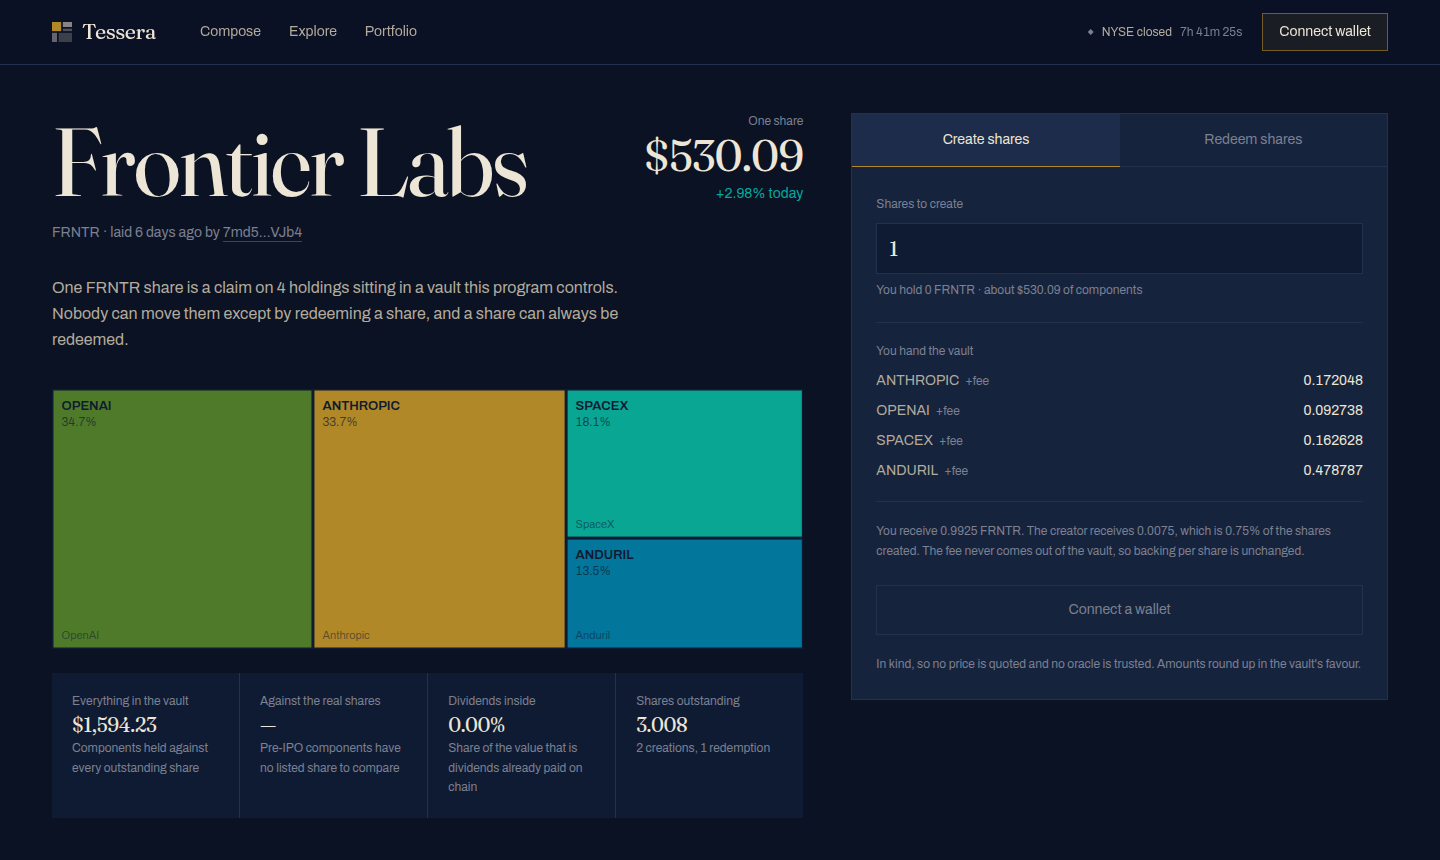
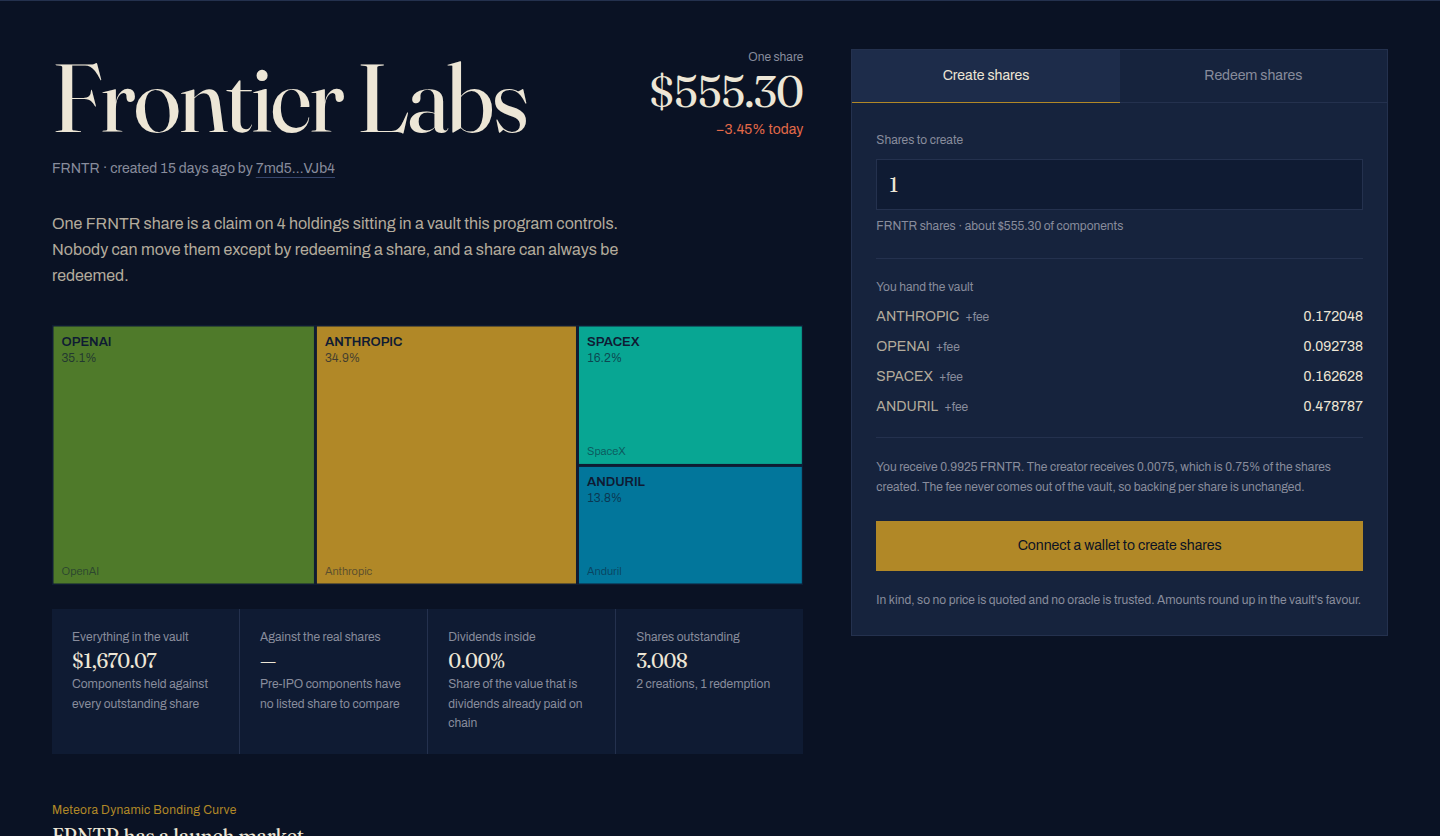
Give the site motion where it means something, and state the business
The bonding curve draws itself when it comes into view and the marker
glides after a buy. The hero settles in line by line, sections rise as
they scroll into view, live markers breathe, cards lift on hover, and all
of it is off under reduced motion. Explore opens on the most traded
baskets, the README gets fresh screenshots and a section on revenue, and
the 404 page loses the last of the old wording.

diff --git a/web/components/launch-market.tsx b/web/components/launch-market.tsx
@@ -1,6 +1,6 @@
 "use client";
 
-import { useCallback, useEffect, useState } from "react";
+import { useCallback, useEffect, useRef, useState } from "react";
 import Link from "next/link";
 import { PublicKey } from "@solana/web3.js";
 import { useConnection, useWallet } from "@solana/wallet-adapter-react";
@@ -427,7 +427,7 @@ export function LaunchCard({
           <span className="text-ivory-dim">{info.baseName}</span>
         </p>
         <p className="flex items-center gap-2 text-xs text-ivory-faint">
-          <span className="size-1.5 rounded-full bg-gain" aria-hidden />
+          <span className={`size-1.5 rounded-full bg-gain ${state?.migrated ? "" : "live-dot"}`} aria-hidden />
           {state?.migrated
             ? "Graduated to Meteora DAMM v2"
             : state && state.raised >= state.threshold
@@ -614,11 +614,30 @@ const PAD = { top: 20, right: 16, bottom: 30, left: 16 };
  * shape is an exact parabola, not an illustration.
  */
 function Curve({ state, error }: { state: DbcState | null; error: string | null }) {
-  const { ref, width } = useMeasure<HTMLDivElement>();
+  const { ref: measure, width } = useMeasure<HTMLDivElement>();
+  const el = useRef<HTMLDivElement | null>(null);
+  const ref = useCallback(
+    (node: HTMLDivElement | null) => {
+      el.current = node;
+      measure(node);
+    },
+    [measure],
+  );
+  // The chart usually sits below the fold, so the draw-in waits until it is seen.
+  const [seen, setSeen] = useState(false);
+  useEffect(() => {
+    if (!el.current) return;
+    const observer = new IntersectionObserver(([entry]) => {
+      if (entry.isIntersecting) setSeen(true);
+    });
+    observer.observe(el.current);
+    return () => observer.disconnect();
+  }, []);
+  const progress = useTween(seen && state ? Math.min(1, state.raised / state.threshold) : 0);
   return (
     <div ref={ref} className="h-[220px]">
       {state && width > 0 ? (
-        <CurvePlot state={state} W={width} />
+        <CurvePlot state={state} W={width} progress={progress} />
       ) : (
         <p className="flex h-full items-center justify-center px-6 text-center text-xs text-ivory-faint">
           {error ?? "Reading the pool"}
@@ -628,13 +647,45 @@ function Curve({ state, error }: { state: DbcState | null; error: string | null 
   );
 }
 
-function CurvePlot({ state, W }: { state: DbcState; W: number }) {
+/**
+ * Eases a value towards its target over 800ms, so the curve draws itself on
+ * first view and the marker slides along it after a buy instead of jumping.
+ */
+function useTween(target: number): number {
+  const [value, setValue] = useState(0);
+  const from = useRef(0);
+  useEffect(() => {
+    if (window.matchMedia("(prefers-reduced-motion: reduce)").matches) {
+      const frame = requestAnimationFrame(() => setValue(target));
+      return () => cancelAnimationFrame(frame);
+    }
+    const start = performance.now();
+    const begin = from.current;
+    let frame = 0;
+    const step = (now: number) => {
+      const t = Math.min(1, (now - start) / 800);
+      const eased = 1 - (1 - t) ** 3;
+      const next = begin + (target - begin) * eased;
+      from.current = next;
+      setValue(next);
+      if (t < 1) frame = requestAnimationFrame(step);
+    };
+    frame = requestAnimationFrame(step);
+    return () => cancelAnimationFrame(frame);
+  }, [target]);
+  return value;
+}
+
+function CurvePlot({ state, W, progress }: { state: DbcState; W: number; progress: number }) {
   const a = Math.sqrt(state.openCap);
   const b = Math.sqrt(state.graduationCap);
   const capAt = (t: number) => (a + (b - a) * t) ** 2;
   const x = (t: number) => PAD.left + t * (W - PAD.left - PAD.right);
   const y = (cap: number) => H - PAD.bottom - (cap / state.graduationCap) * (H - PAD.top - PAD.bottom);
-  const progress = Math.min(1, state.raised / state.threshold);
+  // While the marker is moving it sits on the curve itself; at rest it sits at the pool's own price.
+  const settled = Math.abs(progress - Math.min(1, state.raised / state.threshold)) < 0.0005;
+  const cap = settled ? state.cap : capAt(progress);
+  const raised = settled ? state.raised : progress * state.threshold;
 
   const line = (from: number, to: number) =>
     Array.from({ length: 61 }, (_, i) => from + ((to - from) * i) / 60)
@@ -656,17 +707,17 @@ function CurvePlot({ state, W }: { state: DbcState; W: number }) {
       <path d={line(0, 1)} fill="none" stroke="var(--color-rule-bright)" strokeWidth="2" strokeDasharray="4 4" />
       <path d={filled} fill="var(--color-gold)" fillOpacity="0.18" />
       <path d={line(0, progress)} fill="none" stroke="var(--color-gold)" strokeWidth="2.5" />
-      <line x1={x(progress)} x2={x(progress)} y1={base} y2={y(state.cap)} stroke="var(--color-gold)" strokeDasharray="2 3" />
-      <circle cx={x(progress)} cy={y(state.cap)} r="6" fill="var(--color-gold)" stroke="var(--color-ground-raised)" strokeWidth="2" />
+      <line x1={x(progress)} x2={x(progress)} y1={base} y2={y(cap)} stroke="var(--color-gold)" strokeDasharray="2 3" />
+      <circle cx={x(progress)} cy={y(cap)} r="6" fill="var(--color-gold)" stroke="var(--color-ground-raised)" strokeWidth="2" />
       {/* Past the middle the label sits left of the dot, so it never runs off the edge. */}
       <text
         x={progress > 0.6 ? x(progress) - 12 : x(progress) + 12}
-        y={progress > 0.6 ? y(state.cap) + 20 : y(state.cap) - 10}
+        y={progress > 0.6 ? y(cap) + 20 : y(cap) - 10}
         fill="var(--color-ivory)"
         fontSize="13"
         textAnchor={progress > 0.6 ? "end" : "start"}
       >
-        {state.migrated ? "graduated" : "now"} · {quantity(state.raised, 4)} SOL in
+        {state.migrated ? "graduated" : "now"} · {quantity(raised, 4)} SOL in
       </text>
       <circle cx={x(1)} cy={y(state.graduationCap)} r="4" fill="none" stroke="var(--color-ivory-dim)" strokeWidth="1.5" />
       {progress < 0.85 && (

diff --git a/web/app/page.tsx b/web/app/page.tsx
@@ -40,23 +40,23 @@ export default function Home() {
         <div className="max-w-[34rem] self-center">
           <Link
             href="#launch"
-            className="mb-7 inline-flex items-center gap-2.5 border border-gold/40 px-3 py-1.5 text-xs text-ivory-dim transition-colors hover:border-gold hover:text-ivory"
+            className="rise mb-7 inline-flex items-center gap-2.5 border border-gold/40 px-3 py-1.5 text-xs text-ivory-dim transition-colors hover:border-gold hover:text-ivory"
           >
-            <span className="size-1.5 shrink-0 rounded-full bg-gain" aria-hidden />
+            <span className="live-dot size-1.5 shrink-0 rounded-full bg-gain" aria-hidden />
             Live now: a basket trading on a Meteora bonding curve
             <span aria-hidden>↓</span>
           </Link>
-          <h1 className="display text-hero text-ivory">
+          <h1 className="rise display text-hero text-ivory" style={{ "--i": 1 } as React.CSSProperties}>
             An index fund is a list of companies and a set of weights.
           </h1>
-          <p className="mt-7 max-w-[46ch] text-lg leading-relaxed text-ivory-dim">
+          <p className="rise mt-7 max-w-[46ch] text-lg leading-relaxed text-ivory-dim" style={{ "--i": 2 } as React.CSSProperties}>
             Tessera is an ETF launchpad on Solana. Pick up to eight tokenised
             stocks and pre-IPO companies such as OpenAI and SpaceX, set the
             weights, and launch them as one token. Every share is backed by the
             real tokens in an on-chain vault and can be redeemed for them at any
             time. You earn a fee on every share created.
           </p>
-          <div className="mt-9 flex flex-wrap items-center gap-4">
+          <div className="rise mt-9 flex flex-wrap items-center gap-4" style={{ "--i": 3 } as React.CSSProperties}>
             <ComposeCta />
             <Link
               href="/explore"
@@ -65,7 +65,7 @@ export default function Home() {
               Explore baskets
             </Link>
           </div>
-          <p className="mt-7 text-sm leading-relaxed text-ivory-faint">
+          <p className="rise mt-7 text-sm leading-relaxed text-ivory-faint" style={{ "--i": 4 } as React.CSSProperties}>
             Nothing is priced by an oracle. A share is created by handing the vault
             the exact tokens the recipe names, and redeemed by taking them back.
           </p>
@@ -77,12 +77,12 @@ export default function Home() {
       </section>
 
       {/* ------------------------------------------------------------ stats */}
-      <section className="border-y border-rule py-px">
+      <section className="reveal border-y border-rule py-px">
         <HomeStats />
       </section>
 
       {/* ------------------------------------------------------- lifecycle */}
-      <section className="py-20">
+      <section className="reveal py-20">
         <h2 className="display text-title max-w-[26ch] text-ivory">
           From a recipe to a market, and none of it trusts us.
         </h2>
@@ -120,12 +120,12 @@ export default function Home() {
       </section>
 
       {/* ---------------------------------------------------------- launch */}
-      <section id="launch" className="scroll-mt-24 border-t border-rule py-20">
+      <section id="launch" className="reveal scroll-mt-24 border-t border-rule py-20">
         <LaunchMarket />
       </section>
 
       {/* ------------------------------------------------------- two clocks */}
-      <section className="grid gap-10 border-t border-rule py-20 lg:grid-cols-[minmax(0,1fr)_minmax(0,1.1fr)] lg:gap-16">
+      <section className="reveal grid gap-10 border-t border-rule py-20 lg:grid-cols-[minmax(0,1fr)_minmax(0,1.1fr)] lg:gap-16">
         <div className="max-w-[38ch] self-center">
           <h2 className="display text-title text-ivory">
             The exchange keeps hours. Your basket does not.
@@ -147,7 +147,7 @@ export default function Home() {
       </section>
 
       {/* -------------------------------------------------------- baskets */}
-      <section className="border-t border-rule py-20">
+      <section className="reveal border-t border-rule py-20">
         <FeaturedBaskets />
       </section>
     </div>

diff --git a/web/app/globals.css b/web/app/globals.css
@@ -75,9 +75,17 @@ body {
   border-radius: 1px;
 }
 
-/* Besides tiles settling in, only the market clock animates unprompted, and only
-   because a clock that does not move is broken. */
+html {
+  scroll-behavior: smooth;
+}
+
+/* Things settle into place once; only the market clock and live markers keep
+   moving, because a clock that does not move is broken and a live dot that
+   does not breathe looks dead. */
 @media (prefers-reduced-motion: reduce) {
+  html {
+    scroll-behavior: auto;
+  }
   *,
   *::before,
   *::after {
@@ -99,6 +107,63 @@ body {
 
 .pulse {
   animation: tessera-pulse 2.4s ease-in-out infinite;
+}
+
+@keyframes tessera-rise {
+  from {
+    opacity: 0;
+    transform: translateY(14px);
+  }
+}
+
+/* First paint: the hero settles in line by line. */
+.rise {
+  animation: tessera-rise 640ms cubic-bezier(0.2, 0.7, 0.2, 1) both;
+  animation-delay: calc(var(--i, 0) * 90ms);
+}
+
+/* Sections below the fold rise as they scroll into view, where the browser can
+   drive it from the scroll position; elsewhere they are simply there. */
+@supports (animation-timeline: view()) {
+  .reveal {
+    animation: tessera-rise 700ms cubic-bezier(0.2, 0.7, 0.2, 1) both;
+    animation-timeline: view();
+    animation-range: entry 0% entry 30%;
+  }
+}
+
+@keyframes tessera-ping {
+  to {
+    transform: scale(2.8);
+    opacity: 0;
+  }
+}
+
+.live-dot {
+  position: relative;
+}
+.live-dot::after {
+  content: "";
+  position: absolute;
+  inset: 0;
+  border-radius: inherit;
+  background: inherit;
+  animation: tessera-ping 1.8s cubic-bezier(0, 0, 0.2, 1) infinite;
+}
+
+.lift {
+  transition:
+    transform 220ms cubic-bezier(0.2, 0.7, 0.2, 1),
+    border-color 160ms ease-out,
+    box-shadow 220ms ease-out;
+}
+.lift:hover {
+  transform: translateY(-2px);
+  box-shadow: 0 16px 36px -20px rgb(0 0 0 / 0.7);
+}
+
+button:not(:disabled):active {
+  transform: translateY(1px);
 }
 
 @keyframes tessera-tile-in {

diff --git a/web/components/explorer.tsx b/web/components/explorer.tsx
@@ -21,9 +21,9 @@ import { CardSkeletons } from "./skeletons";
 type SortKey = "newest" | "value" | "activity" | "components";
 
 const SORTS: { key: SortKey; label: string }[] = [
+  { key: "activity", label: "Most traded" },
   { key: "newest", label: "Newest" },
   { key: "value", label: "Most valuable share" },
-  { key: "activity", label: "Most traded" },
   { key: "components", label: "Most holdings" },
 ];
 
@@ -31,7 +31,7 @@ export function Explorer() {
   const { baskets, error, loading } = useBaskets();
   const launched = useOpenLaunches(baskets);
   const { snapshot } = useMarket();
-  const [sort, setSort] = useState<SortKey>("newest");
+  const [sort, setSort] = useState<SortKey>("activity");
   const [query, setQuery] = useState("");
 
   const rows = useMemo(() => {

diff --git a/web/app/not-found.tsx b/web/app/not-found.tsx
@@ -9,7 +9,7 @@ export default function NotFound() {
   return (
     <div className="mx-auto max-w-[1400px] px-5 py-32 text-center sm:px-8">
       <p className="tnum text-sm text-ivory-faint">404</p>
-      <h1 className="display text-title mt-3 text-ivory">Nothing laid here.</h1>
+      <h1 className="display text-title mt-3 text-ivory">Nothing here.</h1>
       <p className="mx-auto mt-4 max-w-[48ch] text-base leading-relaxed text-ivory-dim">
         This page does not exist. The market and every basket on the program are
         a click away.

diff --git a/web/app/method/page.tsx b/web/app/method/page.tsx
@@ -438,6 +438,7 @@ export default async function MethodPage() {
               ["Oracles used", "none"],
               ["Recipe after creation", "immutable"],
               ["Launch market", "Meteora DBC"],
+              ["Tessera's revenue", "half of every launch curve's trading fees"],
             ].map(([term, value]) => (
               <div key={term} className="flex items-baseline justify-between gap-4 px-4 py-3">
                 <dt className="text-ivory-faint">{term}</dt>

diff --git a/web/components/basket-card.tsx b/web/components/basket-card.tsx
@@ -30,7 +30,7 @@ export function BasketCard({ basket, launched = false }: { basket: Basket; launc
   return (
     <Link
       href={`/basket/${basket.address}`}
-      className="group block border border-rule bg-ground transition-colors hover:border-rule-bright"
+      className="group lift block border border-rule bg-ground hover:border-rule-bright"
     >
       <div className="flex items-baseline justify-between gap-3 px-5 pt-5">
         <div className="min-w-0">

diff --git a/README.md b/README.md
@@ -46,6 +46,8 @@ flowchart LR
 
 ![A basket page: recipe, vault holdings and net asset value](.github/readme/basket.png)
 
+![The basket's Meteora launch market: the live curve, a buy, and the creator's fee claim](.github/readme/launch.png)
+
 ---
 
 ## Try it in two minutes
@@ -103,6 +105,24 @@ a faithful mirror: one Token-2022 mint per ticker, with the same 8 decimals and 
 `ScaledUiAmountConfig` seeded from the multiplier the real mint carries. The
 program cannot tell the difference. Pointing Tessera at the real mints is a
 change to one generated file.
+
+---
+
+## How Tessera makes money
+
+Nothing is charged for creating a basket or for creating and redeeming shares:
+the creator fee is the creator's, in full. Revenue comes from the launch
+markets, where the Tessera treasury is the Meteora partner on every curve:
+
+- **Half of every curve's trading fees**, from the 4% opening fee down to the
+  settled 1%. The basket's creator earns the other half.
+- **1% of the SOL raised when a curve graduates**, taken as the migration fee.
+- **Half of the graduated DAMM v2 pool's fees, for good**, because half of the
+  migrated liquidity is permanently locked in a position the treasury owns.
+
+Every basket that opens a launch market pays the treasury for as long as the
+token trades, and the creator is paid alongside, which is why creators open
+one.
 
 ---
 
